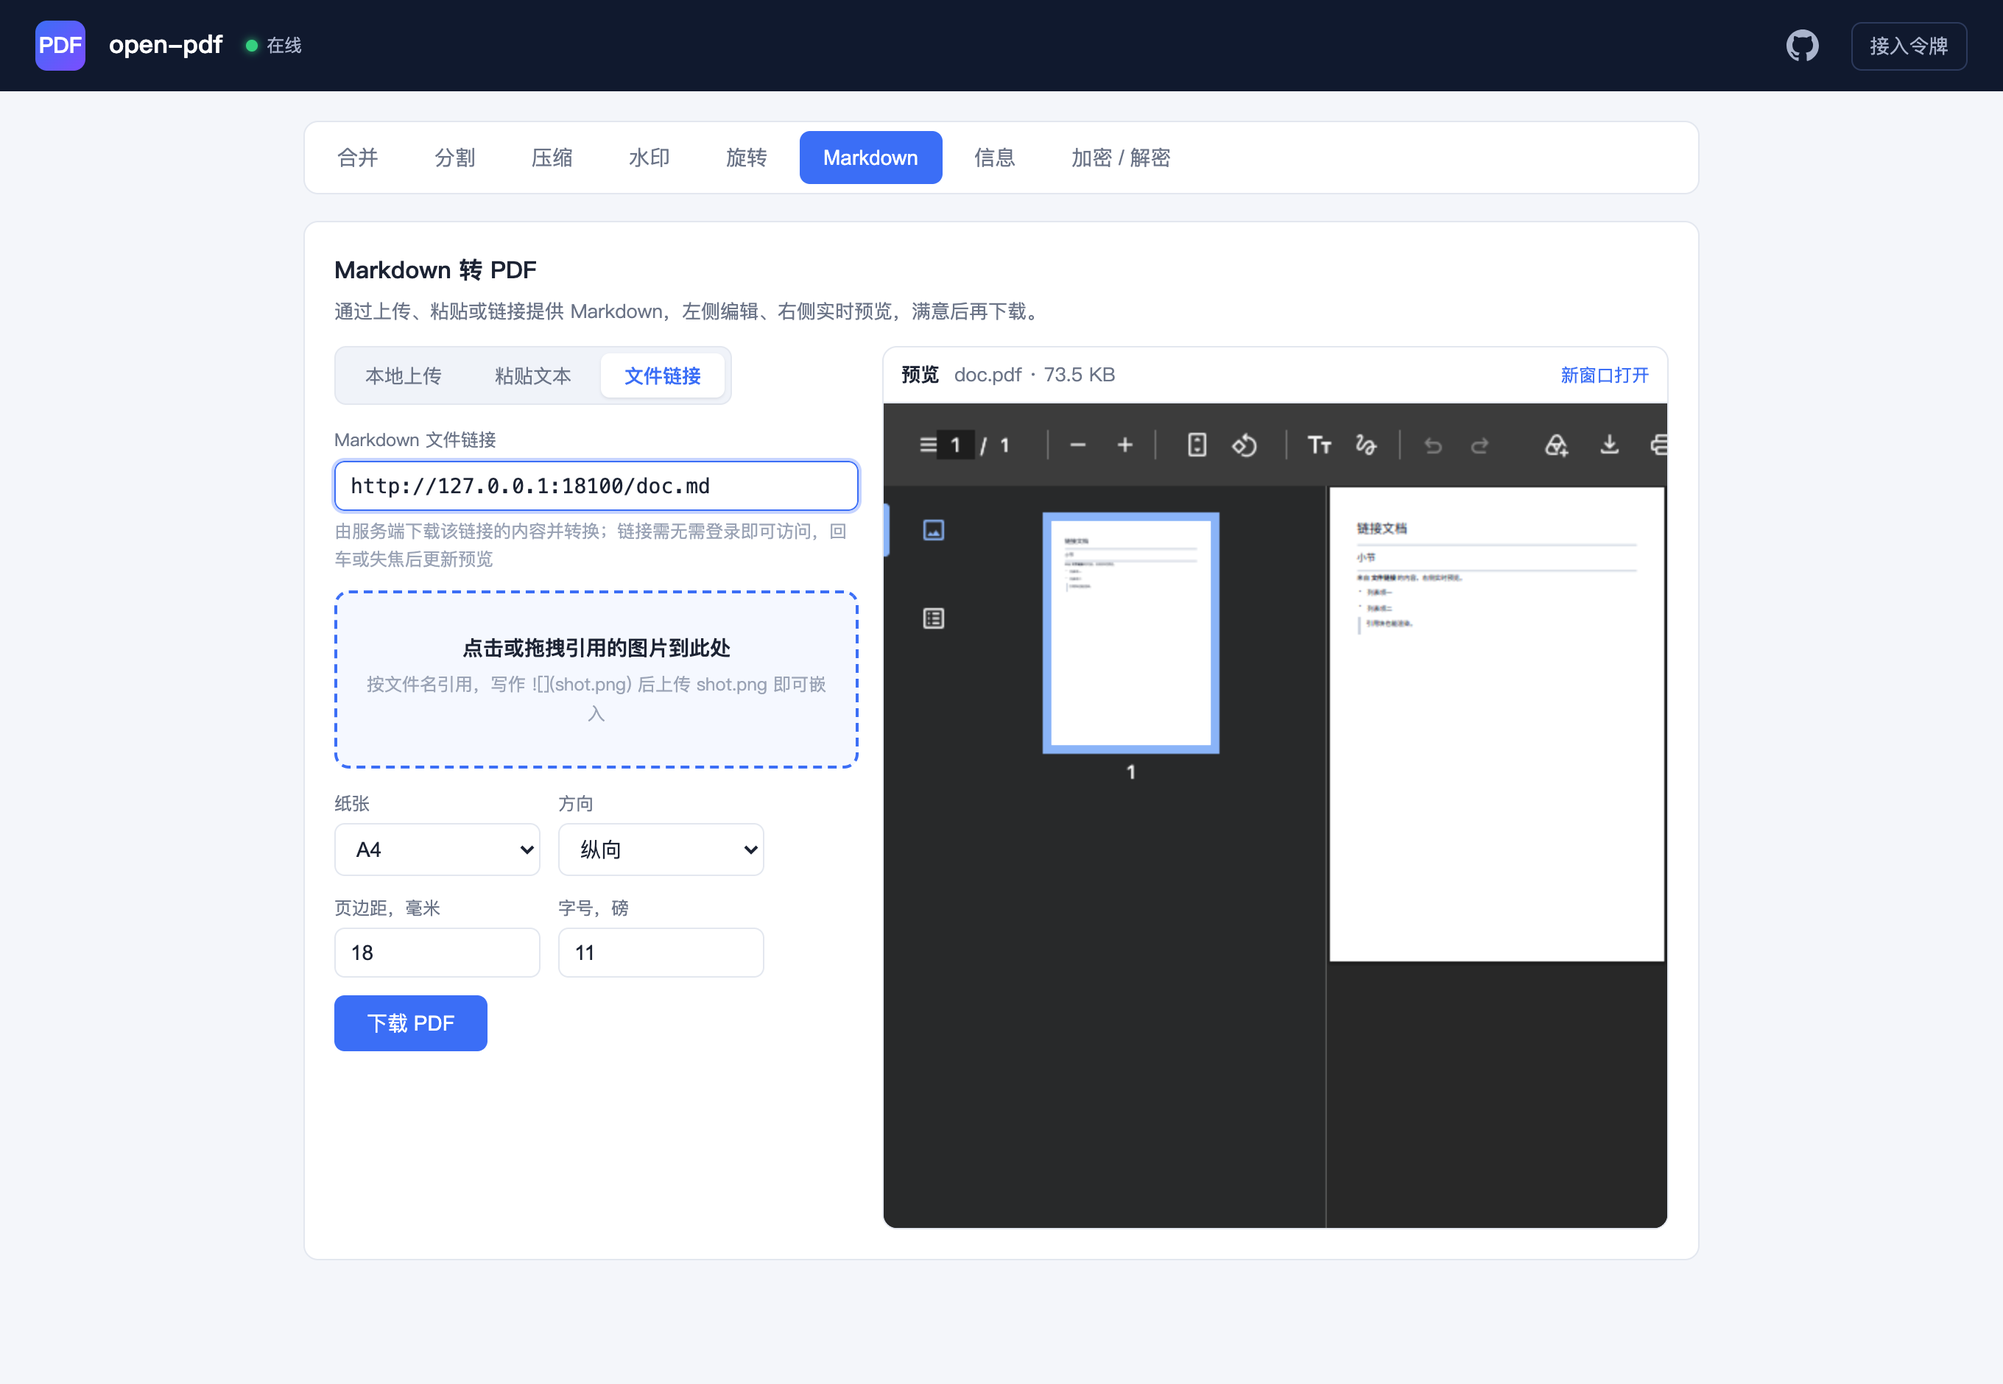
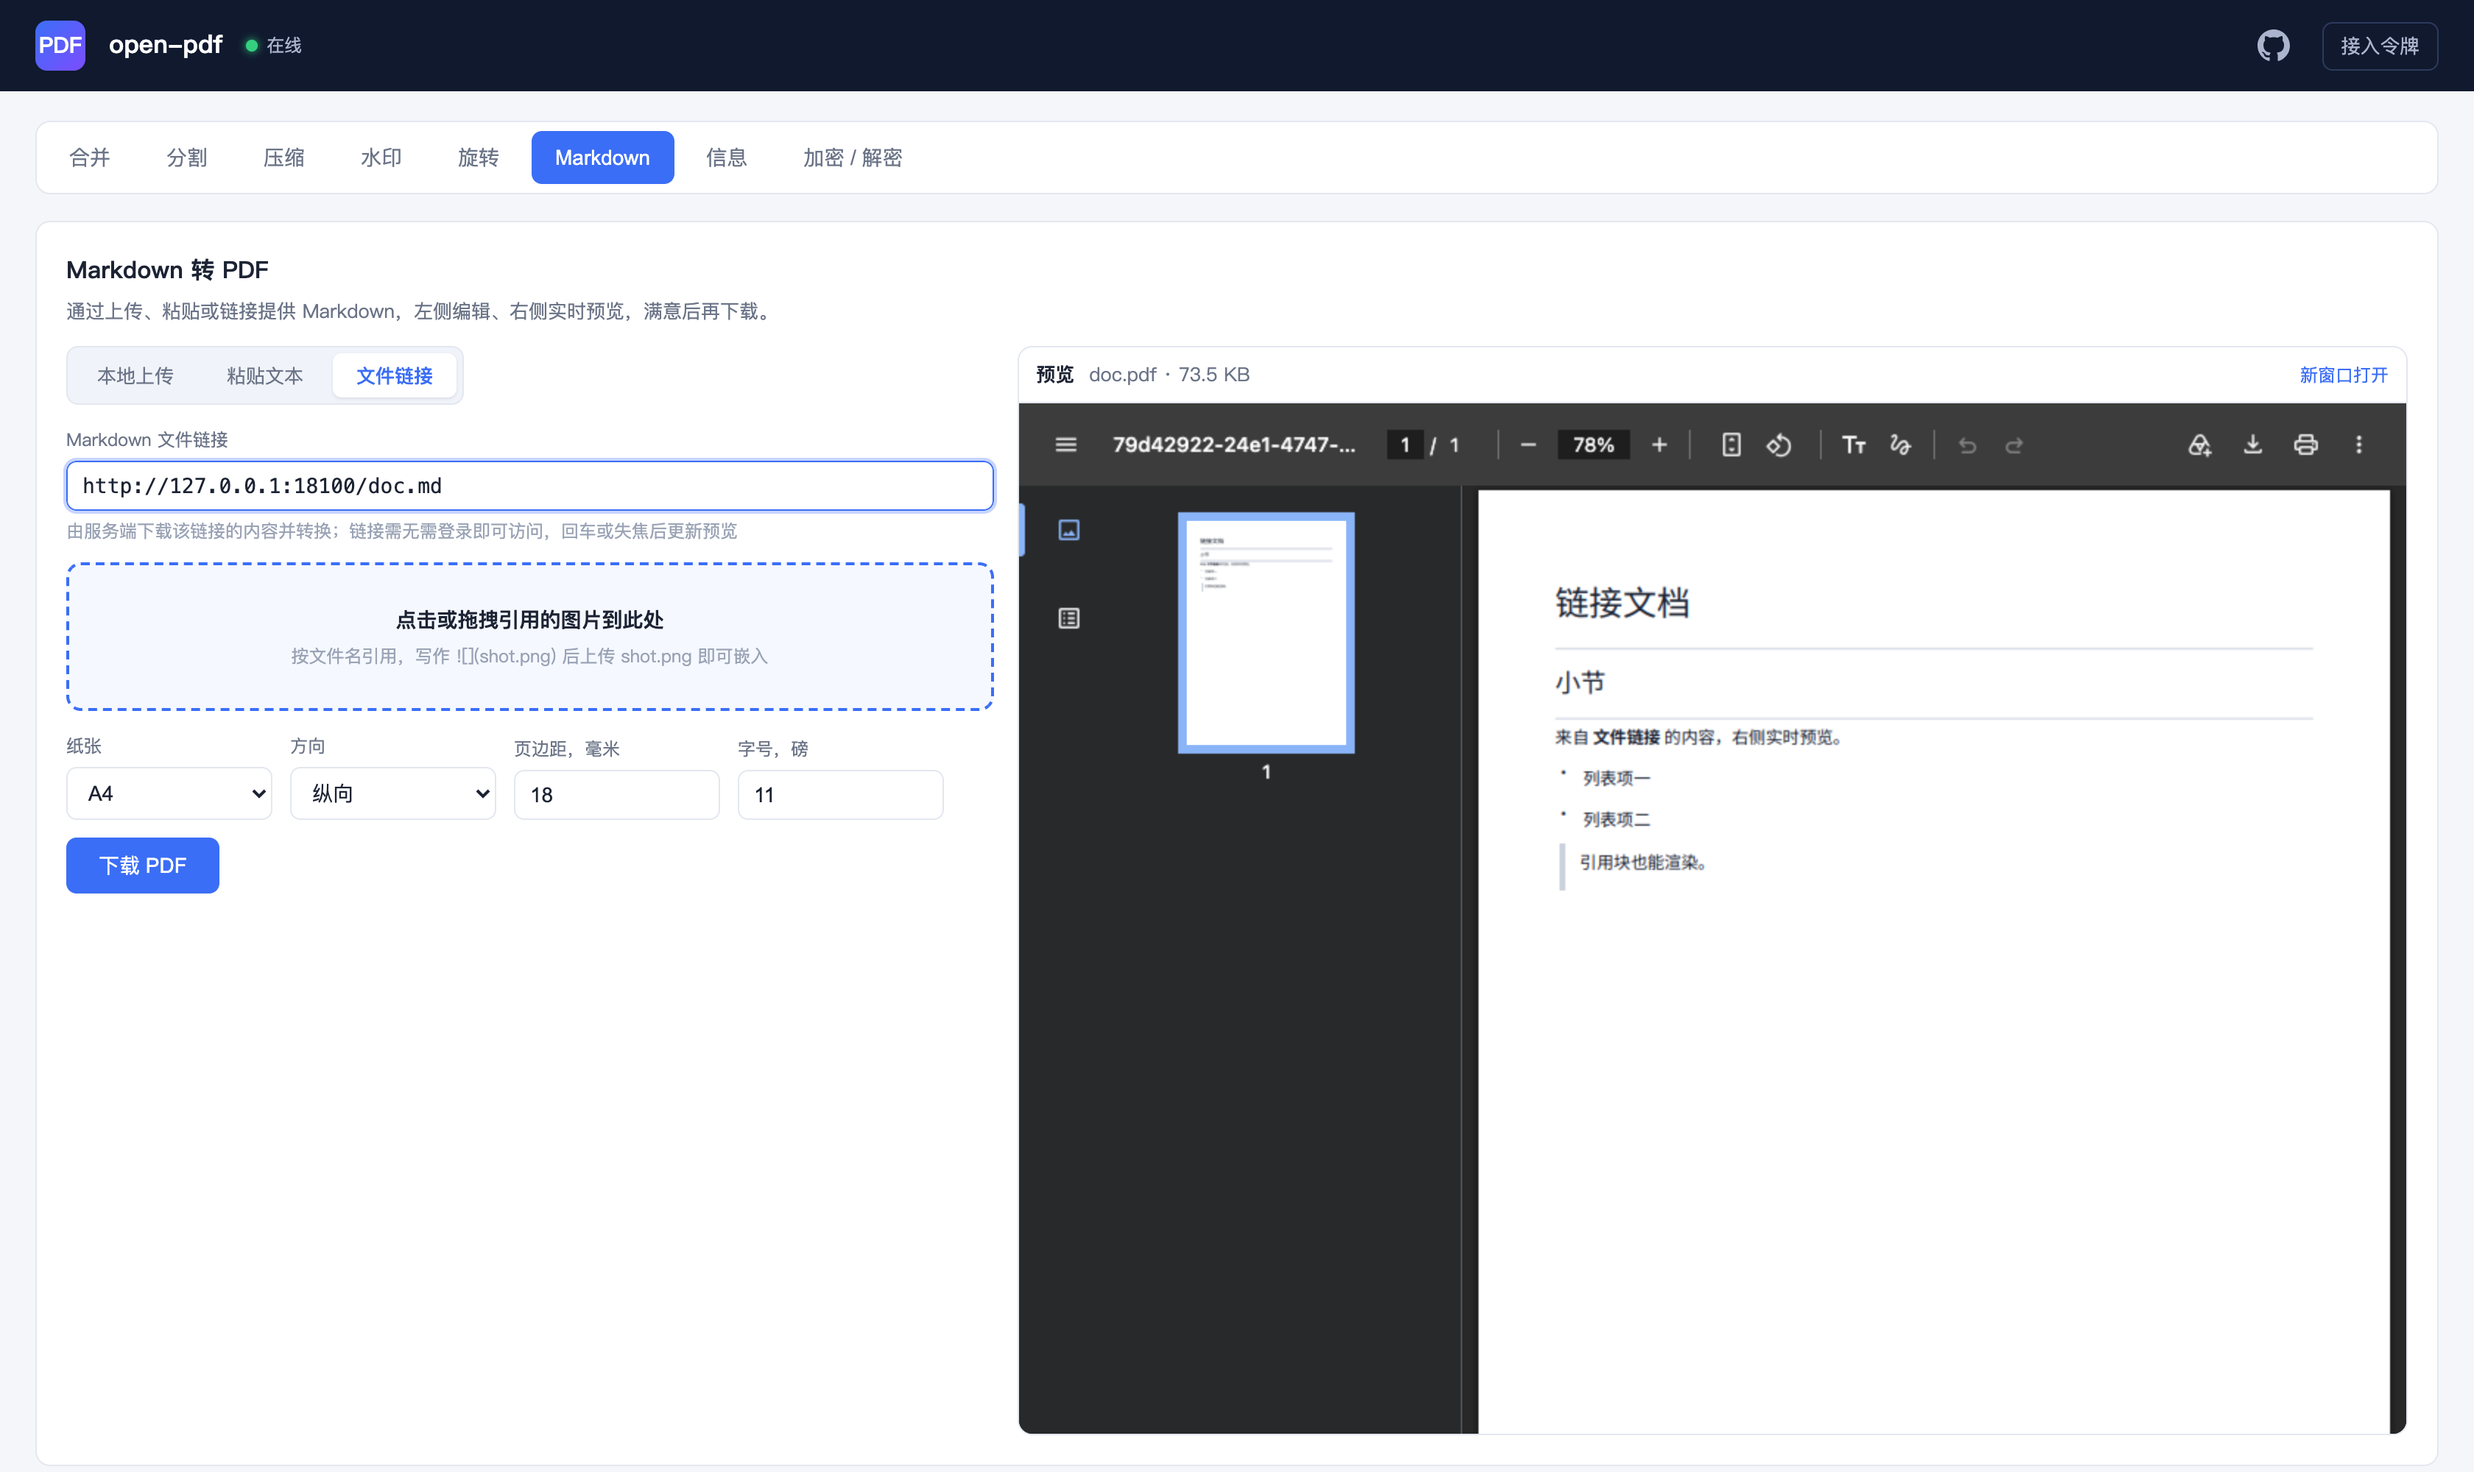
feat: 页面撑满整个窗口
- 布局去掉 980px 居中限宽，内容区占满窗口宽度，仅保留左右 24px
  边距（窄屏 12px）
- Markdown 预览高度改为跟随窗口（clamp 480px~920px），全宽下预览
  列按 3:2 比例获得更多宽度
- 全部截图按全宽版式重拍（含合并页 overview）

diff --git a/web/dist/assets/index-VsdrWb53.css b/web/dist/assets/index-VsdrWb53.css
@@ -1,0 +1,1 @@
+:root{--bg: #f4f6fa;--card: #ffffff;--ink: #1c2333;--muted: #6b7487;--line: #e3e7ef;--brand: #3b6ef6;--brand-ink: #ffffff;--ok: #1f9d55;--err: #d64545;--radius: 10px;font-family:PingFang SC,Microsoft YaHei,Segoe UI,system-ui,-apple-system,sans-serif}*{box-sizing:border-box}body{margin:0;background:var(--bg);color:var(--ink);font-size:14px;line-height:1.6}#app{min-height:100vh;display:flex;flex-direction:column}.header{background:#10192e;color:#fff;padding:14px 24px;display:flex;align-items:center;gap:16px;flex-wrap:wrap}.header .logo{width:34px;height:34px;border-radius:8px;background:linear-gradient(135deg,#3b6ef6,#7c4dff);display:flex;align-items:center;justify-content:center;font-weight:700;font-size:15px}.header h1{font-size:17px;margin:0;font-weight:600}.header .spacer{flex:1}.health{display:flex;align-items:center;gap:6px;color:#aab4cc;font-size:12px}.health .dot{width:8px;height:8px;border-radius:50%;background:#999}.health.ok .dot{background:#35d07f;box-shadow:0 0 6px #35d07f}.health.down .dot{background:#ff6b6b}.layout{flex:1;width:100%;margin:0 auto;padding:20px 24px 48px}@media(max-width:640px){.layout{padding-left:12px;padding-right:12px}}.tabs{display:flex;gap:6px;flex-wrap:wrap;margin-bottom:18px;background:var(--card);padding:6px;border-radius:var(--radius);border:1px solid var(--line)}.tabs button{border:0;background:transparent;padding:8px 16px;border-radius:7px;cursor:pointer;color:var(--muted);font-size:14px}.tabs button:hover{color:var(--ink);background:#f0f3f9}.tabs button.active{background:var(--brand);color:var(--brand-ink);font-weight:500}.card{background:var(--card);border:1px solid var(--line);border-radius:var(--radius);padding:20px;margin-bottom:16px}.card h2{margin:0 0 4px;font-size:16px}.card .sub{color:var(--muted);margin:0 0 14px;font-size:13px}.row{display:flex;gap:12px;flex-wrap:wrap;align-items:flex-end}.field{display:flex;flex-direction:column;gap:4px}.field label{font-size:12px;color:var(--muted)}input[type=text],input[type=number],input[type=password],input[type=url],select{border:1px solid var(--line);border-radius:7px;padding:8px 10px;font-size:14px;background:#fff;color:var(--ink);min-width:140px}input:focus,select:focus{outline:2px solid #c6d4ff;border-color:var(--brand)}button.primary{background:var(--brand);color:#fff;border:0;border-radius:7px;padding:9px 22px;font-size:14px;cursor:pointer}button.primary:hover{filter:brightness(1.06)}button.primary:disabled{opacity:.55;cursor:not-allowed}button.ghost{background:transparent;border:1px solid var(--line);border-radius:7px;padding:6px 12px;cursor:pointer;color:var(--muted)}button.ghost:hover{color:var(--ink);border-color:#c9d2e3}.dropzone{border:2px dashed #c9d2e3;border-radius:var(--radius);padding:26px 16px;text-align:center;color:var(--muted);cursor:pointer;transition:border-color .15s,background .15s}.dropzone:hover,.dropzone.over{border-color:var(--brand);background:#f5f8ff}.dropzone strong{color:var(--ink)}.dropzone .formats{font-size:12px;margin-top:4px;color:#9aa3b5}.filelist{list-style:none;margin:12px 0 0;padding:0;display:flex;flex-direction:column;gap:6px}.filelist li{display:flex;align-items:center;gap:10px;background:#f7f9fd;border:1px solid var(--line);border-radius:7px;padding:7px 12px;font-size:13px}.filelist .name{flex:1;overflow:hidden;text-overflow:ellipsis;white-space:nowrap}.filelist .size{color:var(--muted);font-size:12px}.filelist .icon{width:22px;text-align:center}.filelist .mini{border:1px solid var(--line);background:#fff;border-radius:5px;cursor:pointer;padding:2px 7px;font-size:12px;color:var(--muted)}.filelist .mini:hover{color:var(--ink)}.error-box{margin-top:14px;background:#fdf1f1;border:1px solid #f3caca;color:var(--err);border-radius:7px;padding:10px 14px;font-size:13px;word-break:break-all}.result-box{margin-top:14px;background:#effaf3;border:1px solid #bfe6cd;color:#14683a;border-radius:7px;padding:10px 14px;font-size:13px;display:flex;align-items:center;gap:10px;flex-wrap:wrap}.result-box .meta{color:var(--muted)}.spinner{display:inline-block;width:14px;height:14px;border:2px solid #ffffffaa;border-top-color:#fff;border-radius:50%;animation:spin .7s linear infinite;vertical-align:-2px;margin-right:6px}@keyframes spin{to{transform:rotate(360deg)}}.stats{display:flex;gap:10px;flex-wrap:wrap;margin-bottom:14px}.stat{background:#f7f9fd;border:1px solid var(--line);border-radius:7px;padding:10px 16px;min-width:110px}.stat .k{font-size:12px;color:var(--muted)}.stat .v{font-size:18px;font-weight:600}pre.json{background:#0f172a;color:#cde3ff;border-radius:7px;padding:14px;overflow:auto;max-height:420px;font-size:12px;margin:0}.settings{display:flex;gap:8px;align-items:center}.settings input{background:#1b2740;border-color:#2c3a5c;color:#e7ecf7;min-width:200px}.header .gh{display:flex;align-items:center;color:#aab4cc;padding:4px 6px;border-radius:7px;transition:color .15s,background .15s}.header .gh:hover{color:#fff;background:#1b2740}.md-input{width:100%;border:1px solid var(--line);border-radius:7px;padding:10px 12px;font-size:13px;font-family:SF Mono,Menlo,Consolas,monospace;background:#fff;color:var(--ink);resize:vertical;line-height:1.6}.md-input:focus{outline:2px solid #c6d4ff;border-color:var(--brand)}.mode-switch{display:inline-flex;gap:4px;padding:4px;background:#f0f3f9;border:1px solid var(--line);border-radius:8px;margin-bottom:14px}.mode-switch button{border:0;background:transparent;padding:6px 16px;border-radius:6px;cursor:pointer;color:var(--muted);font-size:13px}.mode-switch button:hover{color:var(--ink)}.mode-switch button.active{background:var(--card);color:var(--brand);font-weight:500;box-shadow:0 1px 2px #10192e1a}.md-link{width:100%;font-family:SF Mono,Menlo,Consolas,monospace;font-size:13px}.field-hint{font-size:12px;color:#9aa3b5}.md-workspace{display:grid;grid-template-columns:minmax(300px,2fr) minmax(320px,3fr);gap:16px;align-items:start}@media(max-width:880px){.md-workspace{grid-template-columns:1fr}}.md-preview{border:1px solid var(--line);border-radius:var(--radius);background:var(--card);overflow:hidden}.md-preview-head{display:flex;align-items:center;gap:10px;padding:8px 12px;border-bottom:1px solid var(--line);font-size:13px;color:var(--muted);min-height:38px}.md-preview-head strong{color:var(--ink);font-weight:600}.md-preview-head .meta{overflow:hidden;text-overflow:ellipsis;white-space:nowrap}.md-preview-head .spacer{flex:1}.md-preview-head a{color:var(--brand);text-decoration:none;font-size:12px;flex-shrink:0}.md-preview-head a:hover{text-decoration:underline}.md-preview-frame{width:100%;height:clamp(480px,70vh,920px);border:0;display:block;background:#f4f6fa}.md-preview-empty{height:clamp(480px,70vh,920px);display:flex;flex-direction:column;align-items:center;justify-content:center;gap:6px;color:#9aa3b5;font-size:13px;padding:0 24px;text-align:center}.md-preview-empty .sub-line{font-size:12px}.spinner.dark{border-color:#c9d2e3;border-top-color:var(--brand);margin-right:0}footer.site{text-align:center;color:#9aa3b5;font-size:12px;padding:18px}footer.site a{color:#7c96d9;text-decoration:none}

diff --git a/web/src/style.css b/web/src/style.css
@@ -52,9 +52,11 @@ body {
 .layout {
   flex: 1;
   width: 100%;
-  max-width: 980px;
   margin: 0 auto;
-  padding: 20px 16px 48px;
+  padding: 20px 24px 48px;
+}
+@media (max-width: 640px) {
+  .layout { padding-left: 12px; padding-right: 12px; }
 }
 
 .tabs {
@@ -319,13 +321,13 @@ pre.json {
 .md-preview-head a:hover { text-decoration: underline; }
 .md-preview-frame {
   width: 100%;
-  height: 560px;
+  height: clamp(480px, 70vh, 920px);
   border: 0;
   display: block;
   background: #f4f6fa;
 }
 .md-preview-empty {
-  height: 560px;
+  height: clamp(480px, 70vh, 920px);
   display: flex;
   flex-direction: column;
   align-items: center;

diff --git a/web/dist/index.html b/web/dist/index.html
@@ -5,8 +5,8 @@
     <meta name="viewport" content="width=device-width, initial-scale=1.0" />
     <meta name="description" content="open-pdf — 常用 PDF 操作的 Web 界面：合并、分割、压缩、水印、旋转、加密等" />
     <title>open-pdf</title>
-    <script type="module" crossorigin src="/assets/index-EmRXLw2g.js"></script>
-    <link rel="stylesheet" crossorigin href="/assets/index-ffFuqrxl.css">
+    <script type="module" crossorigin src="/assets/index-DMsevfX_.js"></script>
+    <link rel="stylesheet" crossorigin href="/assets/index-VsdrWb53.css">
   </head>
   <body>
     <div id="app"></div>
